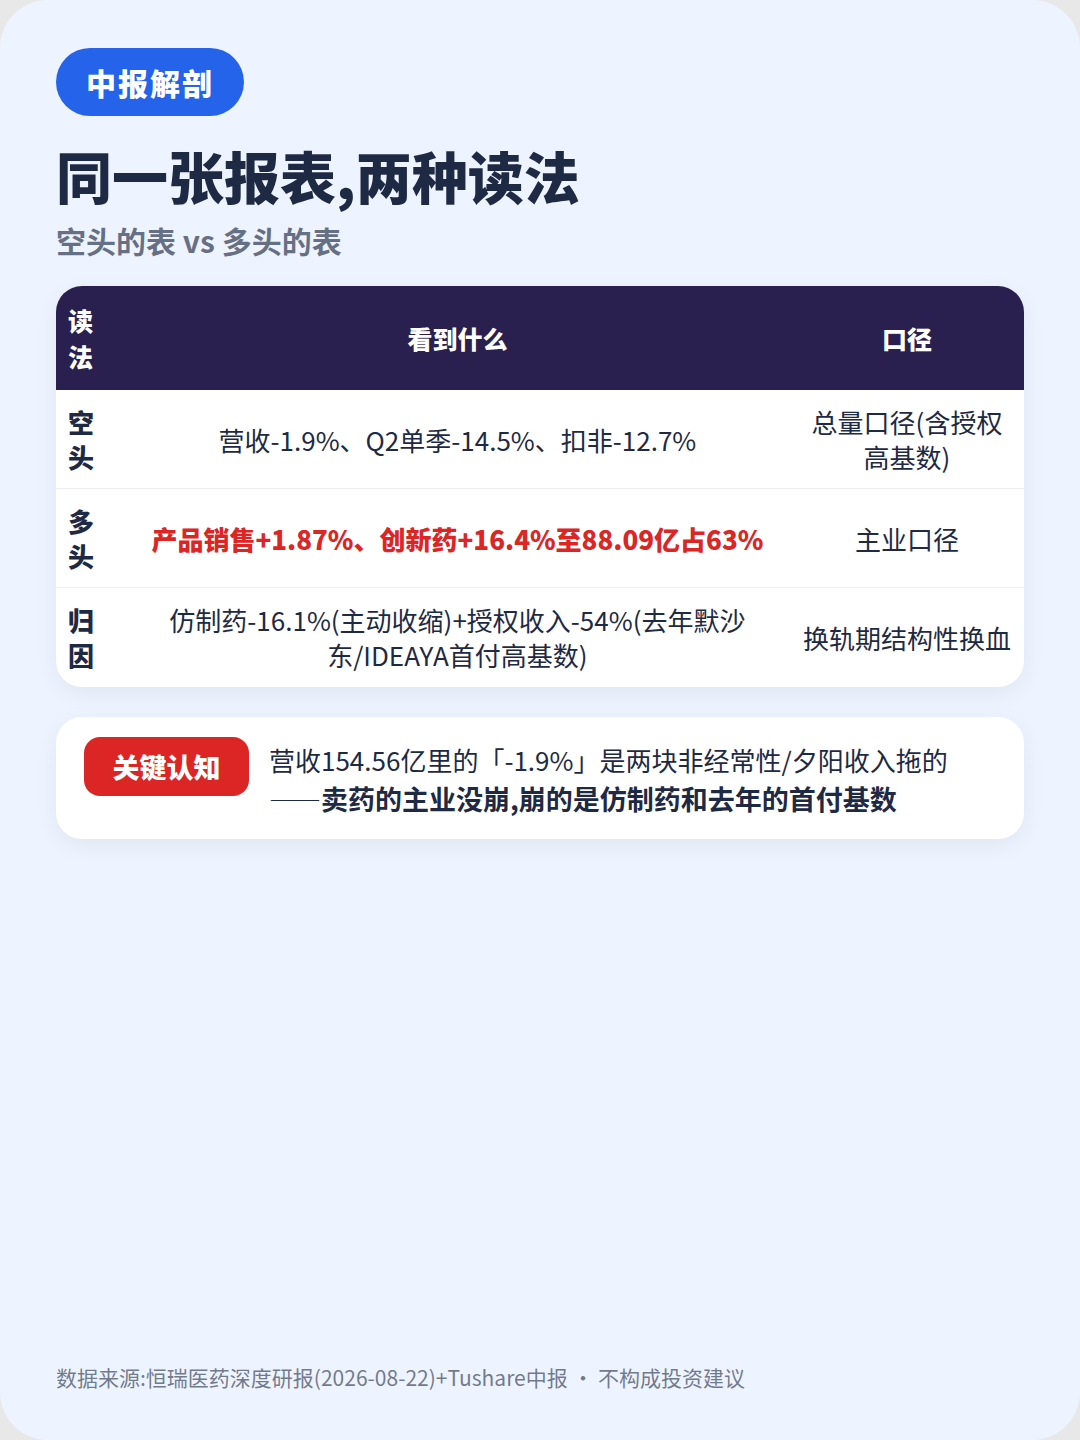
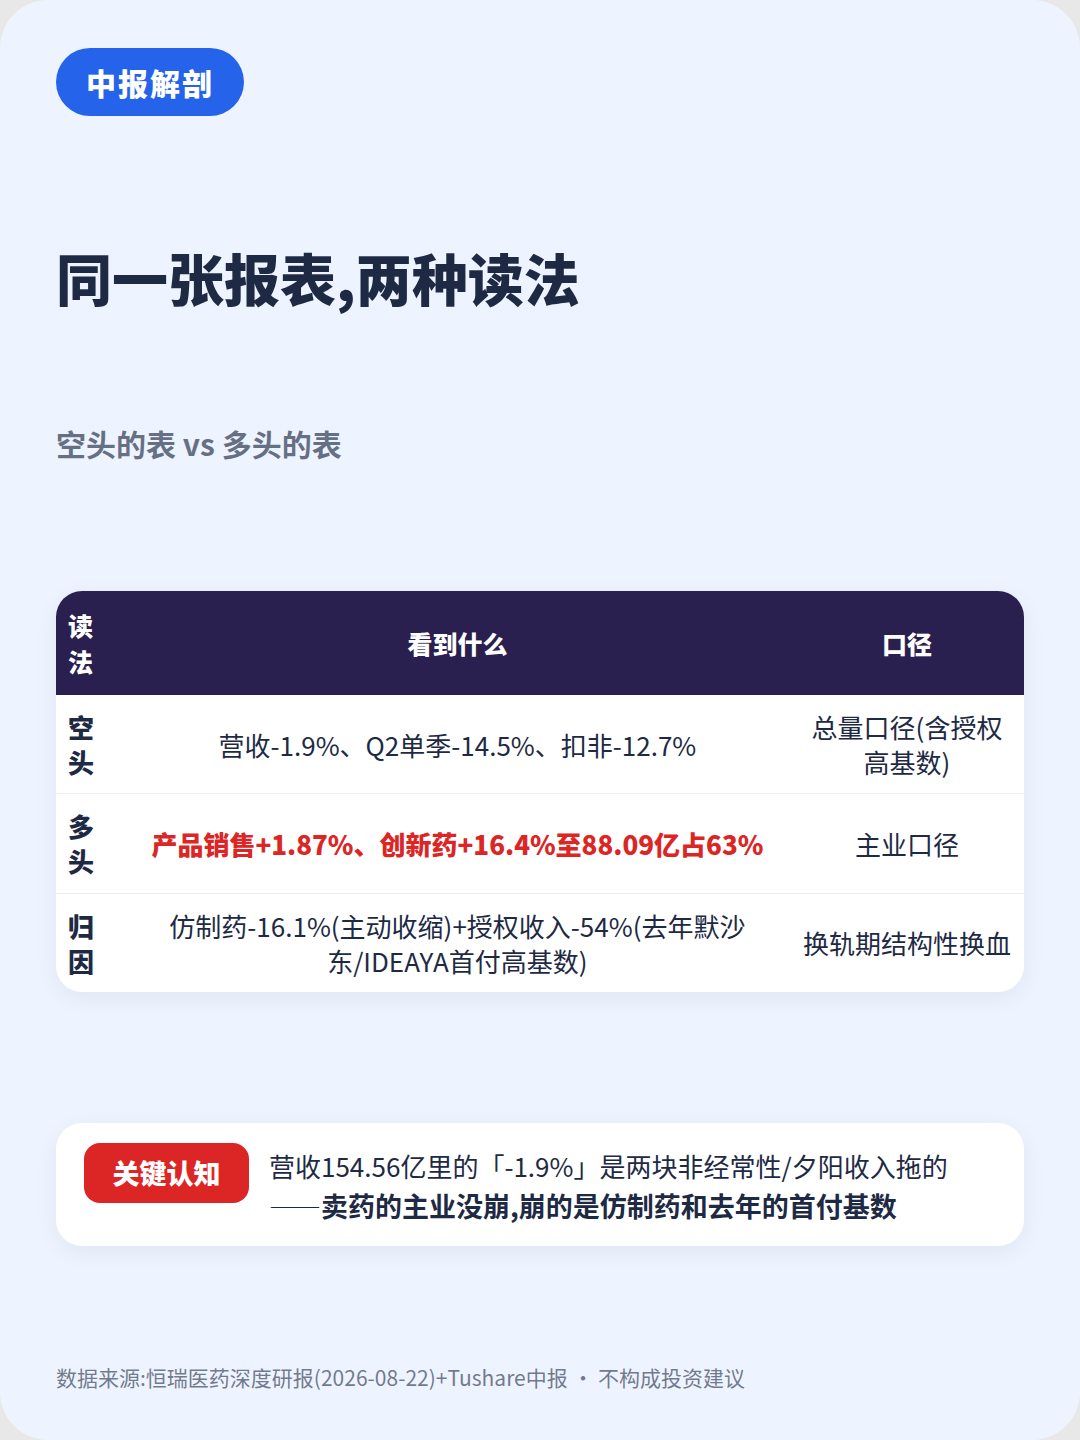
feat(cardgen): 遗留风险清零——①留白修复:builder注入space-between+foot margin覆盖(根因:margin-top:auto吸走全部空隙),5卡复检全过;②配图扩至13工程:医药个股补图5张(药品/细胞培养/蛋白结构,CC授权),密集卡一律corner;③metrics夜采cron已挂21:10

diff --git a/docs/小红书卡片/艾力斯卡/output/cards.html b/docs/小红书卡片/艾力斯卡/output/cards.html
@@ -47,7 +47,7 @@
   .nb { background:rgba(255,255,255,.12); border-radius:26px; padding:24px 30px; flex:1; }
   .nb .v { font-size:58px; font-weight:900; color:#ffd400; }
   .nb .k { font-size:25px; opacity:.85; margin-top:6px; }
-</style></head><body><div class="card card5" id="card1">
+</style><style class='cardgen-fill'>.card{justify-content:space-between;}.card>.foot{margin-top:0 !important;}</style></head><body><div class="card card5" id="card1">
 <span class="tag-top" style="background:#ff2442;">个股拆解 · 2026-08-30</span>
 <h1>艾力斯<br>单品帝国的现金牛🐄</h1>
 <div class="sub" style="margin-top:24px;">伏美替尼四年二十五倍销售<br>PE却到了三年最低分位</div>
@@ -60,7 +60,7 @@
 <div style="display:flex;flex-direction:column;gap:24px;"><div><div style="display:flex;justify-content:space-between;font-size:30px;font-weight:800;margin-bottom:10px;"><span>🔵 2021</span><span style="color:#2563eb;">2.36亿</span></div><div style="height:38px;border-radius:19px;background:linear-gradient(90deg,#2563eb 5%,#e9e4f0 5%);"></div></div><div><div style="display:flex;justify-content:space-between;font-size:30px;font-weight:800;margin-bottom:10px;"><span>🟢 2023</span><span style="color:#16a34a;">19.78亿</span></div><div style="height:38px;border-radius:19px;background:linear-gradient(90deg,#16a34a 39%,#e9e4f0 39%);"></div></div><div><div style="display:flex;justify-content:space-between;font-size:30px;font-weight:800;margin-bottom:10px;"><span>🟠 2025</span><span style="color:#c2410c;">51.20亿</span></div><div style="height:38px;border-radius:19px;background:linear-gradient(90deg,#c2410c 100%,#e9e4f0 100%);"></div></div></div>
 <div style="font-size:24px;opacity:.6;text-align:right;margin-top:4px;">CAGR约117%——但增速已从加号三位数降到约四成:单品帝国的山顶轮廓</div>
 <div style="margin-top:34px;"><div class="kbox"><div class="kdate" style="background:#dc2626;">山顶信号</div><div class="ktext">收入占比<b>94.5%</b>单品依赖+增速换挡(+150%→+46%→+40%)——市场担心的不是现在,是2027年专利与竞品</div></div><div class="kbox"><div class="kdate" style="background:#c2410c;">第二曲线</div><div class="ktext">三件期权:戈来雷塞(KRAS,已入医保)/AST2303(四代TKI临床)/海外III期——<b>都还没兑现,这是低分位的来源</b></div></div></div>
-<div class="foot">数据来源:深度研报(2026-08-22)+公司公告 · 仅供研究参考,不构成投资建议</div></div><div class="card card6" id="card3">
+<div class="foot">数据来源:深度研报(2026-08-22)+公司公告 · 仅供研究参考,不构成投资建议</div><div style="position:absolute;top:44px;right:44px;width:270px;"><img src="file:///home/leo/Projects/CodeAgentDashboard/docs/小红书卡片/艾力斯卡/assets/img.jpg" style="max-width:270px;max-height:200px;object-fit:contain;border-radius:20px;display:block;margin:0 auto;box-shadow:0 8px 32px rgba(0,0,0,.18);"/><div style="font-size:18px;opacity:.55;text-align:center;margin-top:6px;line-height:1.3;">图:药品与药板,BuhaM/Wikimedia Commons(CC BY-SA(署名-相同方式共享))</div></div></div><div class="card card6" id="card3">
 <span class="tag-top" style="background:#0f172a;">一句话收束</span>
 <h2 class="title" style="margin-top:24px;">便宜是事实</h2>
 <div class="subtitle">风险也是:概率加权715亿 vs 现市值524亿</div>

diff --git a/docs/小红书卡片/亏损药企怎么看估值/output/cards.html b/docs/小红书卡片/亏损药企怎么看估值/output/cards.html
@@ -47,7 +47,7 @@
   .nb { background:rgba(255,255,255,.12); border-radius:26px; padding:24px 30px; flex:1; }
   .nb .v { font-size:58px; font-weight:900; color:#ffd400; }
   .nb .k { font-size:25px; opacity:.85; margin-top:6px; }
-</style></head><body><div class="card card3" id="card1">
+</style><style class='cardgen-fill'>.card{justify-content:space-between;}.card>.foot{margin-top:0 !important;}</style></head><body><div class="card card3" id="card1">
 <span class="tag-top" style="background:#ff2442;">估值方法论 · 2026-08-30</span>
 <h1>亏损的药企<br>估值怎么看🧮</h1>
 <div class="sub" style="margin-top:24px;">工具方法·医药专题<br>PE失效后的三件替代工具</div>
@@ -64,7 +64,7 @@
 <h2 class="title" style="margin-top:24px;">亏损药企四步估值法🛠</h2>
 <div class="subtitle">顺序不能乱</div>
 <div class="kbox"><div class="kdate" style="background:#2563eb;">第一步</div><div class="ktext"><b>拆收入口径</b>:产品销售/首付款/里程碑分开列——泽璟与荣昌的中报都证明:混在一起读会得出幻觉</div></div><div class="kbox"><div class="kdate" style="background:#c2410c;">第二步</div><div class="ktext"><b>盘点管线资产</b>:III期数量/靶点差异化/竞品出清——管线是亏损期公司的全部家当</div></div><div class="kbox"><div class="kdate" style="background:#7c3aed;">第三步</div><div class="ktext"><b>锚定现金流</b>:在手现金+合约待收-研发烧钱率=资金寿命(百利的48亿缺口就是这么算出来的)</div></div><div class="kbox"><div class="kdate" style="background:#0ea5e9;">第四步</div><div class="ktext"><b>三情景加权</b>:悲观/中性/乐观给概率,输出区间禁止单点——二元事件多的公司,区间必须宽</div></div>
-<div class="foot">数据来源:深度研报(2026-08-22)+公司公告 · 仅供研究参考,不构成投资建议</div></div><div class="card card6" id="card4">
+<div class="foot">数据来源:深度研报(2026-08-22)+公司公告 · 仅供研究参考,不构成投资建议</div><div style="position:absolute;top:44px;right:44px;width:270px;"><img src="file:///home/leo/Projects/CodeAgentDashboard/docs/小红书卡片/亏损药企怎么看估值/assets/img.jpg" style="max-width:270px;max-height:200px;object-fit:contain;border-radius:20px;display:block;margin:0 auto;box-shadow:0 8px 32px rgba(0,0,0,.18);"/><div style="font-size:18px;opacity:.55;text-align:center;margin-top:6px;line-height:1.3;">图:蛋白复合物结构图,Xiao等/Wikimedia Commons(CC BY(署名))</div></div></div><div class="card card6" id="card4">
 <span class="tag-top" style="background:#0f172a;">一句话收束</span>
 <h2 class="title" style="margin-top:24px;">倒着读报表</h2>
 <div class="subtitle">管线是资产,亏损是成本</div>

diff --git a/docs/小红书卡片/泽璟制药卡/output/cards.html b/docs/小红书卡片/泽璟制药卡/output/cards.html
@@ -47,7 +47,7 @@
   .nb { background:rgba(255,255,255,.12); border-radius:26px; padding:24px 30px; flex:1; }
   .nb .v { font-size:58px; font-weight:900; color:#ffd400; }
   .nb .k { font-size:25px; opacity:.85; margin-top:6px; }
-</style></head><body><div class="card card4" id="card1">
+</style><style class='cardgen-fill'>.card{justify-content:space-between;}.card>.foot{margin-top:0 !important;}</style></head><body><div class="card card4" id="card1">
 <span class="tag-top" style="background:#ff2442;">个股拆解 · 2026-08-30</span>
 <h1>泽璟制药<br>首度盈利的成色🧾</h1>
 <div class="sub" style="margin-top:24px;">6.40亿利润里<br>6.62亿是一笔首付</div>
@@ -59,7 +59,7 @@
 <div class="subtitle">把6.40亿拆开看</div>
 <table><tr><th style=text-align:left>口径</th><th>金额</th><th>说明</th></tr><tr><td class="l">表观净利</td><td class="">6.40亿</td><td class="">首度半年盈利(里程碑)</td></tr><tr><td class="l">首付款</td><td class="">6.62亿</td><td class="">艾伯维ZG006,占营收54.9%</td></tr><tr><td class="l">产品真实</td><td class="">5.43亿</td><td class="">+44.3%,健康但量级小</td></tr></table>
 <div style="margin-top:30px;"><div class="kbox"><div class="kdate" style="background:#dc2626;">管线广度</div><div class="ktext">与百利的单点结构不同:ZG006(全球首个DLL3三抗III期)+吉卡昔替尼(JAK,斑秃获批即入医保)+MUC17三抗FDA IND——<b>期权组合而非单注</b></div></div><div class="kbox"><div class="kdate" style="background:#c2410c;">暗面三条</div><div class="ktext">负债率<b>61%</b>以上·销售费用率<b>57%</b>(已超研发)·实控人套现记录+商业机密诉讼——<b>成色打折的地方都在注释里</b></div></div></div>
-<div class="foot">数据来源:深度研报(2026-08-22)+公司公告 · 仅供研究参考,不构成投资建议</div></div><div class="card card6" id="card3">
+<div class="foot">数据来源:深度研报(2026-08-22)+公司公告 · 仅供研究参考,不构成投资建议</div><div style="position:absolute;top:44px;right:44px;width:270px;"><img src="file:///home/leo/Projects/CodeAgentDashboard/docs/小红书卡片/泽璟制药卡/assets/img.jpg" style="max-width:270px;max-height:200px;object-fit:contain;border-radius:20px;display:block;margin:0 auto;box-shadow:0 8px 32px rgba(0,0,0,.18);"/><div style="font-size:18px;opacity:.55;text-align:center;margin-top:6px;line-height:1.3;">图:蛋白复合物结构图,Xiao等/Wikimedia Commons(CC BY(署名))</div></div></div><div class="card card6" id="card3">
 <span class="tag-top" style="background:#0f172a;">一句话收束</span>
 <h2 class="title" style="margin-top:24px;">唯一加权为负的样本</h2>
 <div class="subtitle">概率加权300亿 vs 现市值340.7亿(-12%)</div>

diff --git a/docs/小红书卡片/百济神州卡/output/cards.html b/docs/小红书卡片/百济神州卡/output/cards.html
@@ -47,7 +47,7 @@
   .nb { background:rgba(255,255,255,.12); border-radius:26px; padding:24px 30px; flex:1; }
   .nb .v { font-size:58px; font-weight:900; color:#ffd400; }
   .nb .k { font-size:25px; opacity:.85; margin-top:6px; }
-</style></head><body><div class="card card5" id="card1">
+</style><style class='cardgen-fill'>.card{justify-content:space-between;}.card>.foot{margin-top:0 !important;}</style></head><body><div class="card card5" id="card1">
 <span class="tag-top" style="background:#ff2442;">个股拆解 · 2026-08-30</span>
 <h1>百济神州<br>终于赚钱了🚀</h1>
 <div class="sub" style="margin-top:24px;">2026H1归母32.71亿<br>中国Biotech商业化量级证明</div>
@@ -59,7 +59,7 @@
 <div class="subtitle">低基数效应已标注,看绝对量</div>
 <table><tr><th style=text-align:left>视角</th><th>读数</th><th>解读</th></tr><tr><td class="l">表观增速</td><td class="">+627.1%</td><td class="">低基数(去年同期仅4.50亿),勿线性外推</td></tr><tr><td class="l">绝对量</td><td class="up">半年32.71亿</td><td class="up">中国Biotech商业化盈利能力的量级证明</td></tr><tr><td class="l">收入底盘</td><td class="up">222.2亿营收</td><td class="">全球多产品放量的规模效应开始兑现</td></tr></table>
 <div style="margin-top:30px;"><div class="kbox"><div class="kdate" style="background:#dc2626;">为什么重要</div><div class="ktext">百济验证的商业模式=<b>自主全球商业化</b>(自建海外团队)而非纯授权——这是中国创新药出海的两条路线之一,另一条是百利天恒式的「卖管线给MNC」</div></div></div>
-<div class="foot">数据来源:Tushare income 688235.SH 20260630 · 不构成投资建议</div></div><div class="card card6" id="card3">
+<div class="foot">数据来源:Tushare income 688235.SH 20260630 · 不构成投资建议</div><div style="position:absolute;top:44px;right:44px;width:270px;"><img src="file:///home/leo/Projects/CodeAgentDashboard/docs/小红书卡片/百济神州卡/assets/img.jpg" style="max-width:270px;max-height:200px;object-fit:contain;border-radius:20px;display:block;margin:0 auto;box-shadow:0 8px 32px rgba(0,0,0,.18);"/><div style="font-size:18px;opacity:.55;text-align:center;margin-top:6px;line-height:1.3;">图:细胞培养板,Gannu03(CC BY-SA)</div></div></div><div class="card card6" id="card3">
 <span class="tag-top" style="background:#0f172a;">一句话收束</span>
 <h2 class="title" style="margin-top:24px;">出海的两条路线</h2>
 <div class="subtitle">自主商业化 vs 授权变现</div>

diff --git a/docs/小红书卡片/恒瑞医药卡/output/cards.html b/docs/小红书卡片/恒瑞医药卡/output/cards.html
@@ -47,7 +47,7 @@
   .nb { background:rgba(255,255,255,.12); border-radius:26px; padding:24px 30px; flex:1; }
   .nb .v { font-size:58px; font-weight:900; color:#ffd400; }
   .nb .k { font-size:25px; opacity:.85; margin-top:6px; }
-</style></head><body><div class="card card3" id="card1">
+</style><style class='cardgen-fill'>.card{justify-content:space-between;}.card>.foot{margin-top:0 !important;}</style></head><body><div class="card card3" id="card1">
 <span class="tag-top" style="background:#ff2442;">个股拆解 · 2026-08-30</span>
 <h1>恒瑞:营收微降<br>结构巨变🔍</h1>
 <div class="sub" style="margin-top:24px;">创新药占比首破六成<br>BMS首付下半年待确认</div>
@@ -64,7 +64,7 @@
 <h2 class="title" style="margin-top:24px;">下半年三件事📅</h2>
 <div class="subtitle">按时间轴排好的观察窗口</div>
 <div class="kbox"><div class="kdate" style="background:#dc2626;">H2</div><div class="ktext"><b>BMS首付款确认</b>:6亿美元(总额152亿美元史上最大单)大概率下半年入表——构成收入跳升期权</div></div><div class="kbox"><div class="kdate" style="background:#c2410c;">Q4</div><div class="ktext"><b>瑞普泊肽获批窗口</b>:注射GLP-1(临床减重19.2%口径)NDA已受理;口服GLP-1已报产——但上市即遇价格战</div></div><div class="kbox"><div class="kdate" style="background:#7c3aed;">持续</div><div class="ktext"><b>BD流水线兑现</b>:总额约420亿美元(GSK 120亿+BMS 152亿为核心)——行业最强授权机器的持续输出</div></div>
-<div class="foot">数据来源:恒瑞医药深度研报事件日历节 · 不构成投资建议</div></div><div class="card card6" id="card4">
+<div class="foot">数据来源:恒瑞医药深度研报事件日历节 · 不构成投资建议</div><div style="position:absolute;top:44px;right:44px;width:270px;"><img src="file:///home/leo/Projects/CodeAgentDashboard/docs/小红书卡片/恒瑞医药卡/assets/img.jpg" style="max-width:270px;max-height:200px;object-fit:contain;border-radius:20px;display:block;margin:0 auto;box-shadow:0 8px 32px rgba(0,0,0,.18);"/><div style="font-size:18px;opacity:.55;text-align:center;margin-top:6px;line-height:1.3;">图:药品与药板,BuhaM/Wikimedia Commons(CC BY-SA(署名-相同方式共享))</div></div></div><div class="card card6" id="card4">
 <span class="tag-top" style="background:#0f172a;">一句话收束</span>
 <h2 class="title" style="margin-top:24px;">底部已到<br>右侧未启</h2>
 <div class="subtitle">概率加权中枢3240亿 vs 现市值3169亿</div>

diff --git a/docs/小红书卡片/创新药细分双抗/output/cards.html b/docs/小红书卡片/创新药细分双抗/output/cards.html
@@ -47,7 +47,7 @@
   .nb { background:rgba(255,255,255,.12); border-radius:26px; padding:24px 30px; flex:1; }
   .nb .v { font-size:58px; font-weight:900; color:#ffd400; }
   .nb .k { font-size:25px; opacity:.85; margin-top:6px; }
-</style></head><body><div class="card card1" id="card1">
+</style><style class='cardgen-fill'>.card{justify-content:space-between;}.card>.foot{margin-top:0 !important;}</style></head><body><div class="card card1" id="card1">
 <span class="tag-top" style="background:#ff2442;">创新药细分 · 2026-08-30</span>
 <h1>双抗<br>管线全球第一的赛道🎯</h1>
 <div class="sub" style="margin-top:24px;">创新药细分系列·第五弹<br>全球约一半在研管线在中国</div>

diff --git a/docs/小红书卡片/黄金逻辑自查/output/cards.html b/docs/小红书卡片/黄金逻辑自查/output/cards.html
@@ -47,7 +47,7 @@
   .nb { background:rgba(255,255,255,.12); border-radius:26px; padding:24px 30px; flex:1; }
   .nb .v { font-size:58px; font-weight:900; color:#ffd400; }
   .nb .k { font-size:25px; opacity:.85; margin-top:6px; }
-</style></head><body><div class="card card4" id="card1">
+</style><style class='cardgen-fill'>.card{justify-content:space-between;}.card>.foot{margin-top:0 !important;}</style></head><body><div class="card card4" id="card1">
 <span class="tag-top" style="background:#ff2442;">数据自查 · 2026-08-30</span>
 <h1>黄金的降息逻辑<br>还成立吗🧐</h1>
 <div class="sub" style="margin-top:24px;">宏观科普·自我校验篇<br>公开修正自己的研究假设</div>

diff --git a/docs/小红书卡片/迪哲医药卡/output/cards.html b/docs/小红书卡片/迪哲医药卡/output/cards.html
@@ -47,7 +47,7 @@
   .nb { background:rgba(255,255,255,.12); border-radius:26px; padding:24px 30px; flex:1; }
   .nb .v { font-size:58px; font-weight:900; color:#ffd400; }
   .nb .k { font-size:25px; opacity:.85; margin-top:6px; }
-</style></head><body><div class="card card3" id="card1">
+</style><style class='cardgen-fill'>.card{justify-content:space-between;}.card>.foot{margin-top:0 !important;}</style></head><body><div class="card card3" id="card1">
 <span class="tag-top" style="background:#ff2442;">个股拆解 · 2026-08-30</span>
 <h1>迪哲医药<br>兑现前夜的镜像⏳</h1>
 <div class="sub" style="margin-top:24px;">AZ首付下半年交割<br>报表还没确认的43亿</div>

diff --git a/docs/小红书卡片/利率也是周期/output/cards.html b/docs/小红书卡片/利率也是周期/output/cards.html
@@ -47,7 +47,7 @@
   .nb { background:rgba(255,255,255,.12); border-radius:26px; padding:24px 30px; flex:1; }
   .nb .v { font-size:58px; font-weight:900; color:#ffd400; }
   .nb .k { font-size:25px; opacity:.85; margin-top:6px; }
-</style></head><body><div class="card card5" id="card1">
+</style><style class='cardgen-fill'>.card{justify-content:space-between;}.card>.foot{margin-top:0 !important;}</style></head><body><div class="card card5" id="card1">
 <span class="tag-top" style="background:#ff2442;">方法论番外 · 2026-08-30</span>
 <h1>利率也是一种周期🔄</h1>
 <div class="sub" style="margin-top:24px;">周期方法论·番外篇<br>用三幕剧框架读美联储</div>

diff --git a/davis_analyzer/cardgen/builder.py b/davis_analyzer/cardgen/builder.py
@@ -40,6 +40,18 @@ def load_release(project_dir: Path) -> dict:
     return json.loads((project_dir / "output" / "RELEASE.json").read_text(encoding="utf-8"))
 
 
+def _inject_fill_css(html_path: Path) -> None:
+    """后处理注入纵向均布 CSS:内容不足 1440px 高的卡片自动拉开间距,消除底部大留白。
+
+    space-between 只分配剩余空间,内容已满的卡片零间隙不受影响(2026-08-30 多卡 vision 复检验证)。
+    """
+    html = html_path.read_text(encoding="utf-8")
+    if "cardgen-fill" not in html:
+        html = html.replace("</style>", "</style><style class='cardgen-fill'>"
+                            ".card{justify-content:space-between;}.card>.foot{margin-top:0 !important;}</style>", 1)
+        html_path.write_text(html, encoding="utf-8")
+
+
 def _inject_images(spec: dict, html_path: Path, project_dir: Path) -> None:
     """spec 卡片含 image 字段时,在 card_factory 产出的 HTML 里注入图片块(后处理,不改 card_factory)。
 
@@ -153,6 +165,7 @@ def render(project_dir: Path, topic: str, conn: sqlite3.Connection,
           str(REPO_ROOT / "scripts" / "card_factory" / "build_cards.py"),
           str(out / "spec.materialized.json"), "--out", str(out)])
     _inject_images(spec, out / "cards.html", project_dir)
+    _inject_fill_css(out / "cards.html")
     _run(["node", str(REPO_ROOT / "scripts" / "card_factory" / "snap.cjs"),
           str(out / "cards.html"), "--outdir", str(out), "--prefix", topic])
 
